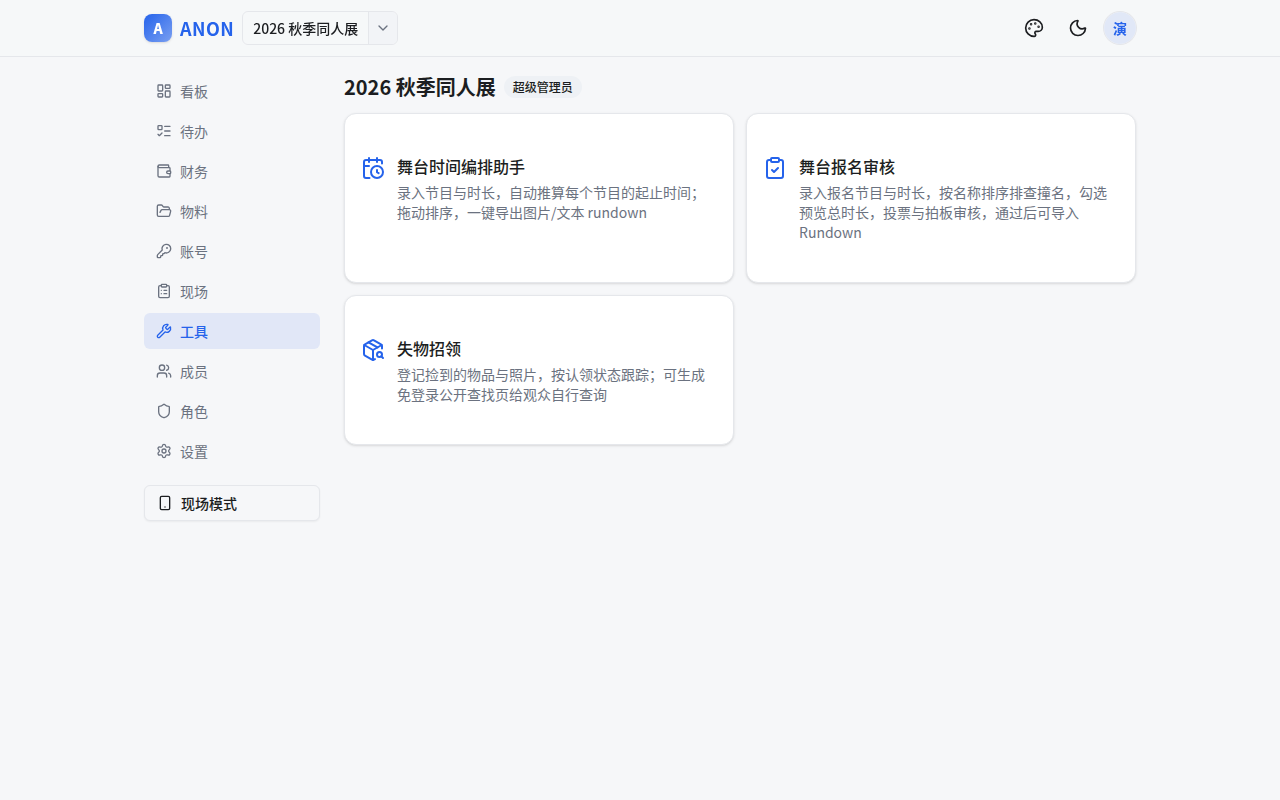
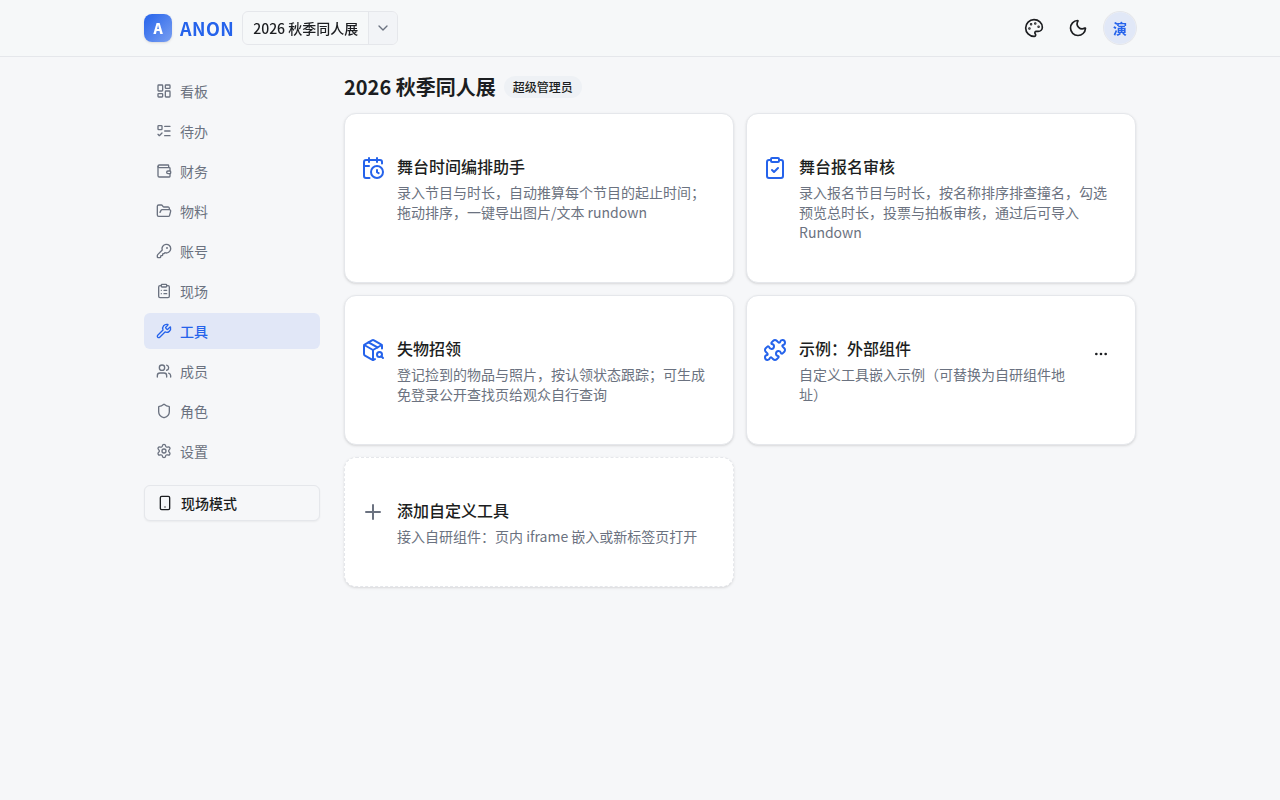
docs: 自定义工具 + OpenAPI 文档与帮助页同步
- file-index：自定义工具/OpenAPI 功能域行、路由/模型/中间件/前端/demo 条目、走查脚本
- features.md：新章「实用工具 · 自定义工具接入」（登记管理/携带身份/个人 API 密钥）+ 权限点表与安全摘要更新
- api.md：通用约定补双 Bearer 凭证与新错误码；新增「自定义工具」「OpenAPI（API 密钥）」两章契约
- readme.md：安全响应头注记 frame-src 放宽 + API 密钥安全设计条目；README 工具节补自定义工具段
- help/content.ts：tools 章新增「自定义工具接入」「携带用户身份与 API 密钥」两节，tab-tools.png 走查环境重生成

Changed region(s): [[0.5938, 0.4062, 0.8438, 0.5], [0.3125, 0.625, 0.5312, 0.6875]]

diff --git a/frontend/src/components/help/content.ts b/frontend/src/components/help/content.ts
@@ -364,10 +364,10 @@ export const HELP_CHAPTERS: HelpChapter[] = [
       {
         heading: '舞台 Rundown',
         paragraphs: [
-          '「工具」Tab 是各类工具组件的容器（移动端收进「更多」弹窗），现有三个工具：「舞台时间编排助手」把舞台节目单排成精确到分钟的时间表；「舞台报名审核」收集报名节目并做录用决策；「失物招领」登记现场捡到物品并跟踪认领（均见本章后续小节）。',
+          '「工具」Tab 是各类工具组件的容器（移动端收进「更多」弹窗），内置三个工具：「舞台时间编排助手」把舞台节目单排成精确到分钟的时间表；「舞台报名审核」收集报名节目并做录用决策；「失物招领」登记现场捡到物品并跟踪认领（均见本章后续小节）。内置工具之后还可登记项目自定义工具（自研组件 iframe 嵌入或新标签页打开），见本章末两节。',
           '每项目可建多份 Rundown（如 Day1/Day2、主/副舞台）。查看与导出全体成员可用；新建、编辑、删除需 `tools:manage` 权限（主办等价放行）。既有项目的角色可在「角色」Tab 勾选「工具管理」补全。',
         ],
-        image: { src: '/help/tab-tools.png', alt: '工具 Tab', caption: '工具 Tab：舞台时间编排助手、舞台报名审核与失物招领' },
+        image: { src: '/help/tab-tools.png', alt: '工具 Tab', caption: '工具 Tab：内置工具卡片、项目自定义工具卡片与「添加自定义工具」入口' },
       },
       {
         heading: '节目与时间推算',
@@ -440,6 +440,20 @@ export const HELP_CHAPTERS: HelpChapter[] = [
         paragraphs: [
           '工具底部的「对外公开查找页」开关打开后，会生成一条免登录链接（/lf/ 开头），任何人打开即可按名称/特征/捡到地点搜索物品、查看照片与认领状态——认领备注等内部信息不会公开。',
           '把链接或二维码贴在服务台，观众可自助查找失物。链接可随时关闭；「重置链接」会作废旧链接并生成新链接（已分发的二维码需更新）。',
+        ],
+      },
+      {
+        heading: '自定义工具接入',
+        paragraphs: [
+          '有「工具管理」权限（或主办）的成员可点「添加自定义工具」卡片，把自研独立组件登记进项目：填写名称、链接（仅 http/https）、描述，并选择打开方式——「嵌入页面内打开」在工具页内以 iframe 渲染（带「全部工具」返回与「新窗口打开」外跳），「新标签页打开」则点击卡片直接外开新标签。',
+          '已登记的工具对所有项目成员可见可点；管理入口在卡片右上角 ⋯ 菜单（编辑/删除）。删除工具会一并作废它签发的所有 API 密钥，不可恢复。若嵌入内容无法显示，说明对方站点禁止被嵌入（X-Frame-Options / frame-ancestors），可改用「新窗口打开」或让该站点放行本系统域名。',
+        ],
+      },
+      {
+        heading: '携带用户身份与 API 密钥',
+        paragraphs: [
+          '登记工具时开启「携带用户身份」并勾选允许插件使用的权限点后，成员打开该工具时链接会附带 5 分钟有效的启动令牌；组件凭它调用 `POST /api/open/exchange` 换取 30 天 API 密钥，之后以 `Authorization: Bearer` 调本系统项目接口，并可调 `GET /api/open/me` 自查身份与生效权限点。密钥的实际权限 = 工具勾选权限点 ∩ 该成员实有角色权限；同一成员重复兑换会顶替旧密钥。',
+          '自动化脚本不需要工具也能拿密钥：「个人资料」页「API 密钥」卡片点「生成密钥」，选项目、勾选你在该项目实有的权限点、选 30 天或永久有效即可。密钥原文只在生成时展示一次，请立即复制保管；泄露或弃用时点「撤销」立即失效。API 密钥只能访问所属项目的项目接口且不超勾选权限点，不能访问个人资料、文件下载等用户态接口，也不能用来再生成新密钥。',
         ],
       },
     ],

diff --git a/docs/file-index.md b/docs/file-index.md
@@ -8,7 +8,7 @@
 
 - 请求链：浏览器 → Cloudflare Worker（`worker/src/index.js`，`/api/*` 反代源站、静态走 ASSETS）→ 源站 nginx（`frontend/nginx.conf`，`/api/` → backend:4000）→ Express（`backend/src/app.ts`）→ FerretDB(MongoDB 协议) / S3(MinIO)。
 - 前端：React 18 + Vite 6 PWA，入口 `frontend/src/main.tsx` → `App.tsx` 路由表；全部请求经 `api/client.ts`（Bearer + 401 单飞刷新重放）；共享类型集中在 `types.ts`。
-- 后端：Express + Mongoose；路由统一挂 `/api/projects/:id/*`（项目域）与 `/api/{auth,admin,me,push,invites,files,cron}` + `/api/public/lostfound`（顶级域，后者免登录）；权限经 `middleware/projectAccess.ts` 的 `loadMembership` + `requirePermission`。
+- 后端：Express + Mongoose；路由统一挂 `/api/projects/:id/*`（项目域）与 `/api/{auth,admin,me,open,push,invites,files,cron}` + `/api/public/lostfound`（顶级域，后者免登录）；权限经 `middleware/projectAccess.ts` 的 `loadMembership` + `requirePermission`；API 密钥（`anonk_` 前缀 Bearer）经 `middleware/auth.ts` 分流鉴权，项目域内由 loadMembership 按 key 绑项目 + scopes 收窄。
 - 纯前端演示站：`frontend/src/demo/` 构建期拦截 `fetch('/api/*')`，内存库 mock 全部后端契约。
 
 ## 功能域速查表（改哪个功能 → 看哪些文件）
@@ -28,6 +28,7 @@
 | 现场模式/工作模块/任务单 | routes/{onsite,workModules,workSheet}.ts、models/{WorkModule,Incident}.ts、services/workModules.ts | pages/{OnsitePage,WorkSheetPrint}.tsx、project/WorkTab.tsx、lib/offlineQueue.ts | tests/{onsite,workModules}.test.ts |
 | 舞台工具（编排/报名/阶段/执行/大屏） | routes/{stageRundowns,stageSignups,stages}.ts、models/{StageRundown,StageScreenShare,StageSignup}.ts | project/tools/*.tsx、project/{ToolsTab,StageManager,StageStepper}.tsx、pages/RundownScreenPage.tsx（大屏公开页）、pages/OnsitePage.tsx（舞台执行卡） | tests/{stageRundowns,stageExecution,stageSignups}.test.ts |
 | 失物招领/公开查找页 | routes/lostFound.ts、models/{LostFoundItem,LostFoundShare}.ts、services/permissions.ts（迁移） | project/tools/LostFound*.tsx、pages/PublicLostFound.tsx、pages/OnsitePage.tsx（现场录入入口） | tests/lostFound.test.ts |
+| 自定义工具/OpenAPI（API 密钥） | routes/{customTools,open}.ts、models/{CustomTool,ApiKey}.ts、middleware/auth.ts（anonk_ 分流 + rejectApiKey 围栏）、middleware/projectAccess.ts（项目绑定 + scopes 收窄）、utils/jwt.ts（kind 隔离 + tool-launch） | project/ToolsTab.tsx、project/tools/{CustomToolEmbed,CustomToolDialog}.tsx、components/ApiKeysCard.tsx（Me 页）、lib/permissions.ts（共享权限清单） | tests/{customTools,open}.test.ts |
 | 里程碑 | routes/milestones.ts、models/Milestone.ts | project/MilestoneSection.tsx | — |
 | 通知（邮件+WebPush）/ cron | services/{notifications,mailer,webpush}.ts、routes/{push,cron}.ts、models/{PushSubscription,ReminderLog,WeeklyReportLog}.ts | lib/push.ts、components/{PushBanner,PushSettingsCard}.tsx、scripts/patch-sw.mjs | tests/{notifications,push,cron}.test.ts |
 | 试用模式 | services/trial.ts、models/TrialSession.ts、services/demoSeed.ts | components/TrialBanner.tsx | tests/trial.test.ts |
@@ -44,21 +45,21 @@
 - `src/app.ts` — Express 装配：helmet + json(2mb) + `/api/health` + errorHandler；路由挂载表（见下文「路由挂载」）
 - `src/config.ts` — 环境配置聚合：port/mongoUri/jwtSecret/S3/SMTP/VAPID/trialEmail
 - `src/index.ts` — 启动入口：连 Mongo → initStorage → grantPermissionToAllRoles（新权限点迁移）→ startTrialSweeper → listen
-- `src/middleware/auth.ts` — authRequired 校验 Bearer JWT；requireSuperAdmin 超管闸
-- `src/middleware/projectAccess.ts` — loadMembership 载入 project/membership/myPermissions；requirePermission(perm)
+- `src/middleware/auth.ts` — authRequired 校验 Bearer（`anonk_` 前缀走 ApiKey 哈希鉴权：过期即删、lastUsedAt 1h 节流回写；否则 JWT）；requireSuperAdmin 超管闸；rejectApiKey 用户态专属接口围栏（403 api_key_forbidden）
+- `src/middleware/projectAccess.ts` — loadMembership 载入 project/membership/myPermissions（API 密钥请求尾部统一收窄：绑项目错配 403 api_key_wrong_project、myPermissions ∩ key.scopes）；requirePermission(perm)
 - `src/middleware/errorHandler.ts` — 统一 AppError/Mongoose 错误为 `{error:{code,message}}`
 - `src/middleware/upload.ts` — multer 磁盘上传（20MB、UUID 命名）；fixFilename 中文名修复
 - `src/utils/async.ts` — ah 包装 async handler 转 next(err)
 - `src/utils/errors.ts` — AppError(status, code, message)
-- `src/utils/jwt.ts` — signToken 15 分钟；verifyToken 返回 userId
+- `src/utils/jwt.ts` — signToken/verifyToken（15 分钟，kind:'user'）；signToolLaunchToken/verifyToolLaunchToken（5 分钟 kind:'tool-launch'，仅可兑换 API 密钥）
 - `vitest.config.ts` — 单 fork 串行、注入测试 JWT_SECRET
 - `scripts/seed-demo.ts` — CLI 种子：5 用户 + 示例项目 + 邀请码 DEMO-2026
 
 ### 路由挂载（app.ts）
-- 顶级：`/api/auth`(限流 50/15min)、`/api/admin`、`/api/me`、`/api/push`、`/api/invites`、`/api/files`、`/api/cron`、`/api/projects`、`/api/public/lostfound` 与 `/api/public/rundown-screen`(免登录,限流 300/min)
-- 项目域 `/api/projects/:id/`：`files` `todos` `work-modules` `work-sheet` `finance` `materials` `physical` `accounts` `dashboard` `onsite` `risks` `announcements` `activities` `stages` `stage-rundowns` `stage-signups` `lostfound` `milestones`
+- 顶级：`/api/auth`(限流 50/15min)、`/api/admin`、`/api/me`、`/api/open`、`/api/push`、`/api/invites`、`/api/files`、`/api/cron`、`/api/projects`、`/api/public/lostfound` 与 `/api/public/rundown-screen`(免登录,限流 300/min)
+- 项目域 `/api/projects/:id/`：`files` `todos` `work-modules` `work-sheet` `finance` `materials` `physical` `accounts` `dashboard` `onsite` `risks` `announcements` `activities` `stages` `stage-rundowns` `stage-signups` `custom-tools` `lostfound` `milestones`
 
-### 路由 `src/routes/`（25 个，一文件一业务域）
+### 路由 `src/routes/`（27 个，一文件一业务域）
 - `auth.ts` — POST register/login/refresh/logout，JWT+refresh 轮换；/login 内嵌试用入口（trialLogin）
 - `admin.ts` — 超管邀请码 POST/GET /invite-codes
 - `me.ts` — 个人资料 GET/PATCH /、POST /onboarded
@@ -79,13 +80,15 @@
 - `stages.ts` — 阶段 CRUD、PATCH /reorder
 - `stageRundowns.ts` — 流程单 CRUD、节目 items、reorder（执行中仅未执行节目槽位可重排，动已演/在演位置 409）、execution 执行控制（start/advance/jump/shift/finish/reset）、screen-share 开关、publicRundownScreenRouter 公开大屏（token + 白名单）
 - `stageSignups.ts` — 报名批次/节目、PUT|DELETE review 投票、POST /:sid/import
+- `customTools.ts` — 自定义工具 CRUD（tools:manage；DELETE 级联删该工具 ApiKey）、POST /:toolId/launch（成员可用，passToken 工具签发 5 分钟启动令牌）
+- `open.ts` — OpenAPI 模式：POST /exchange（launch token 换 30 天 API 密钥，限流 60/15min，同 user+tool 顶替）、GET /me（apikey 自查身份/权限交集/有效期）、keys CRUD（自助生成 30 天或永久，一次性返回原文；authRequired+rejectApiKey 防密钥造密钥）
 - `lostFound.ts` — 双路由：项目域物品 CRUD/status/photo/share（lostfound:manage）；公开域免登录只读（token + 字段白名单）
 - `milestones.ts` — 里程碑 CRUD、POST /:milestoneId/complete
 - `activities.ts` — GET / 项目动态流（limit≤50）
 - `push.ts` — GET /config(VAPID)、POST/DELETE /subscription
 - `cron.ts` — CRON_SECRET 鉴权：POST /reminders、POST /weekly-report
 
-### 模型 `src/models/`（33 个，Mongoose，`models.X ?? model(...)` 幂等注册）
+### 模型 `src/models/`（35 个，Mongoose，`models.X ?? model(...)` 幂等注册）
 - `User.ts` — 用户：email/name/passwordHash/isSuperAdmin/contacts；导出 publicUser() 脱敏
 - `RefreshToken.ts` — 会话：tokenHash(sha256 唯一)、expiresAt
 - `InviteCode.ts` — 注册邀请码：code/createdBy/usedBy/usedAt
@@ -110,6 +113,8 @@
 - `PushSubscription.ts` — WebPush 订阅：endpoint/p256dh/auth（端点唯一）
 - `TrialSession.ts` — 试用会话：keyHash/userId/projectId/expiresAt(24h)
 - `WeeklyReportLog.ts` — 周报发送记录：projectId+weekStart（唯一）
+- `CustomTool.ts` — 自定义工具：projectId/name/url/mode(embed|link)/passToken/scopes
+- `ApiKey.ts` — API 密钥：keyHash(sha256 唯一)/userId/projectId/toolId(可选，工具兑换来源)/scopes/expiresAt(可空=永久)/lastUsedAt
 
 ### 服务 `src/services/`
 - `activity.ts` — logActivity 异步写操作日志
@@ -132,7 +137,7 @@
 
 ### 测试 `tests/`（vitest + supertest + mongodb-memory-server，打真实路由）
 - `setup.ts` / `helpers.ts` — 内存 Mongo 基建 / 造号工具（createSuperAdmin/registerUser）
-- 每域一个 `*.test.ts`：auth/admin/me/projects/invites/todos/todo-complete/todo-updates/template/finance/materials/files/physical/accounts/announcements/dashboard/onsite/workModules/stageRundowns/stageExecution/stageSignups/lostFound/notifications/push/cron/trial/onboarding/health
+- 每域一个 `*.test.ts`：auth/admin/me/projects/invites/todos/todo-complete/todo-updates/template/finance/materials/files/physical/accounts/announcements/dashboard/onsite/workModules/stageRundowns/stageExecution/stageSignups/customTools/open/lostFound/notifications/push/cron/trial/onboarding/health
 
 ## 前端 `frontend/`
 
@@ -149,6 +154,7 @@
 - `src/lib/datetime.ts` — 本地时间格式化 + 活动倒计时 + 开展倒排换算（daysBeforeLocal）
 - `src/lib/offlineQueue.ts` — 离线 POST 队列（现场模式用）
 - `src/lib/push.ts` — Web Push 订阅管理
+- `src/lib/permissions.ts` — PERMISSIONS 权限点清单（与后端 ALL_PERMISSIONS 对齐；RolesTab 矩阵/自定义工具 scopes/ApiKeysCard 勾选区共用）
 - `src/lib/utils.ts` — cn() 类名合并
 
 ### 页面 `src/pages/`
@@ -157,7 +163,7 @@
 - `ProjectHome.tsx` — 项目主页：10 个按权限过滤的 Tab + 现场模式入口
 - `OnsitePage.tsx` — 现场模式：签到/完成/异常上报（离线入队）、舞台执行卡（Rundown 开始/推进/顺延，按 tools:manage 显隐）、失物登记入口（复用 LostFoundItemDialog，按 myPermissions 显隐）、30s 轮询
 - `WorkSheetPrint.tsx` — 任务单打印页（按人/全员）
-- `Me.tsx` — 个人资料/联系方式/推送设置/界面偏好
+- `Me.tsx` — 个人资料/联系方式/推送设置/API 密钥（ApiKeysCard）/界面偏好
 - `Admin.tsx` — 超管邀请码管理
 - `InviteAccept.tsx` — 接受项目邀请
 - `PublicLostFound.tsx` — 失物招领免登录公开查找页（/lf/:token，搜索+状态筛选+照片）
@@ -172,6 +178,7 @@
 - `DemoBadge.tsx` / `DemoBanner.tsx` — 演示站角标 / 横幅（一键还原种子）
 - `TrialBanner.tsx` — 试用横幅（数据销毁倒计时）
 - `PushBanner.tsx` / `PushSettingsCard.tsx` — Push 提示条 / 订阅开关卡
+- `ApiKeysCard.tsx` — Me 页 API 密钥卡：自助生成（项目+实有权限点+30 天/永久）、一次性原文展示复制、列表与撤销
 - `Toaster.tsx` — sonner 封装；`Logo.tsx` — 品牌标识
 - `help/content.ts` — HELP_CHAPTERS 帮助文案（11 章，UI 变化需同步并重生成截图）
 - `onboarding/OnboardingDialog.tsx` — 首登三页幻灯；`onboarding/tour.ts` — driver.js 分步高亮（data-tour 锚点）
@@ -190,7 +197,8 @@
 - `AnnouncementManager.tsx` — 公告发布/置顶/确认名单
 - `MilestoneSection.tsx` / `StageStepper.tsx` / `StageManager.tsx` — 里程碑卡 / 阶段进度条 / 阶段增删排序
 - `VisibilityPicker.tsx` — 可见范围选择器（成员+角色勾选，多 Tab 复用）
-- `ToolsTab.tsx` — 实用工具容器（舞台编排/报名审核/失物招领卡片入口）
+- `ToolsTab.tsx` — 实用工具容器（内置：舞台编排/报名审核/失物招领卡片；自定义工具卡片网格 + ⋯ 管理菜单 + 虚框添加卡，点击 embed→页内 iframe / link→新标签页）
+- `tools/CustomToolEmbed.tsx` / `tools/CustomToolDialog.tsx` — 自定义工具页内 iframe 视图（sandbox 不放行 top-navigation + 新窗口打开）/ 新建编辑弹层（FormOverlay，携带身份开关 + scopes 勾选）
 - `tools/StageRundownTool.tsx` + `ProgramFormDialog.tsx` + `ExecutionPanel.tsx` + `ScreenShareDialog.tsx` — 流程单编排/节目表单/导出/执行控制台（开始/推进/跳节目/顺延/结束重置）/大屏分享管理
 - `tools/StageSignupTool.tsx` + `SignupItemDialog.tsx` + `SignupReviewDialog.tsx` — 报名审核/投票/拍板/导入
 - `tools/SwipeRow.tsx` — 触屏侧滑操作行；`tools/rundownExport.ts` — 时间推算/文本/PNG 导出（纯前端）；`tools/rundownExecution.ts` — 执行态推算纯函数（延误/超时/预计时间/实时级联推算开始与结束）
@@ -198,11 +206,11 @@
 
 ### 演示站 `src/demo/`（`npm run build:demo`，浏览器内 mock 全部 /api）
 - `install.ts` — installDemo：包装 window.fetch 拦截 /api/*；sessionStorage 内存库
-- `router.ts` — def/route：`:param` 模板路由 + 80ms 延迟
-- `seed.ts` — buildSeed（DB_VERSION=6）：相对当前时刻生成演示数据
+- `router.ts` — def/route：`:param` 模板路由 + 80ms 延迟；Ctx 透传 Authorization 头（open/me 识别 anonk_demo_*）
+- `seed.ts` — buildSeed（DB_VERSION=7）：相对当前时刻生成演示数据（含两条自定义工具种子）
 - `types.ts` / `helpers.ts` — Db/Ctx/Handler 类型 / 错误信封·权限·文件存取
 - `aggregate.ts` — R1–R7 聚合（注释标注移植自后端哪个服务）
-- `handlers/*.ts`（13 个）— 按域复刻后端路由：auth/projects/todos/finance/materials/physical/accounts/dashboard/work/stageRundowns/stageSignups/lostFound + index.ts 合并路由表
+- `handlers/*.ts`（15 个）— 按域复刻后端路由：auth/projects/todos/finance/materials/physical/accounts/dashboard/work/stageRundowns/stageSignups/customTools/open/lostFound + index.ts 合并路由表
 - `pwa-register-stub.ts` — 禁 SW 防缓存干扰 mock
 
 ### 构建与脚本
@@ -224,6 +232,6 @@
 
 ## 走查脚本 `.walkthrough/`（不入库的 Playwright 工具集）
 - 截图生成：`help-screenshot*.mjs`（帮助中心 tab-*.png）、`stage-signup-shots.mjs` 等
-- 功能走查：`stage-signup.mjs`、`stage-rundown.mjs`、`stage-execution.mjs`（执行模式+现场大屏）、`onsite-walkthrough.mjs`、`nav-layout-verify.mjs`、`security-verify.mjs` 等约 30 个，输出 PASS/FAIL
+- 功能走查：`stage-signup.mjs`、`stage-rundown.mjs`、`stage-execution.mjs`（执行模式+现场大屏）、`custom-tools.mjs`（自定义工具 + OpenAPI/Me 页密钥全流程）、`onsite-walkthrough.mjs`、`nav-layout-verify.mjs`、`security-verify.mjs` 等约 30 个，输出 PASS/FAIL
 - 冒烟：`smoke/prod-smoke.mjs`、`pwa-smoke.mjs`
 - 调试：`debug-*.mjs` 约 20 个临时复现脚本；`shots/` 为截图产物

diff --git a/docs/readme.md b/docs/readme.md
@@ -163,7 +163,8 @@ CLOUDFLARE_API_TOKEN=... CLOUDFLARE_ACCOUNT_ID=... npm run deploy
 
 - **会话**：access JWT 15 分钟有效，refresh token 30 天滚动（每次刷新轮换，库中只存 sha256，单用户上限 10 个），退出登录即吊销。旧 30 天 JWT 在部署后仍有效直至自然过期（同一 JWT_SECRET），前端会自动走刷新流程续期。
 - **登录限流**：`/api/auth/*`（注册/登录/试用登录/refresh/logout）每 IP 15 分钟最多 50 次，防撞库与试用环境资源消耗。
-- **安全响应头**：nginx 对静态页下发 CSP（无 unsafe-inline 脚本，主题初始化脚本已外置 `theme-init.js`）、`X-Content-Type-Options`、`X-Frame-Options`、`Referrer-Policy`、`Permissions-Policy`；`server_tokens off` 隐藏版本号。
+- **安全响应头**：nginx 对静态页下发 CSP（无 unsafe-inline 脚本，主题初始化脚本已外置 `theme-init.js`；`frame-src` 放行 `https:`/`http:` 以支持自定义工具 iframe 嵌入，本系统自身仍 `frame-ancestors 'none'` 禁止被嵌）、`X-Content-Type-Options`、`X-Frame-Options`、`Referrer-Policy`、`Permissions-Policy`；`server_tokens off` 隐藏版本号。
+- **API 密钥（OpenAPI 模式）**：`anonk_` 前缀 Bearer 凭证（库中只存 sha256，原文仅创建时返回一次）；绑定单一项目且权限 = 密钥 scopes ∩ 持有者实时角色权限；`/api/me`、`/api/admin`、`/api/push`、`/api/invites`、`/api/files` 与项目创建/全量列表整体拒绝密钥；兑换端点限流 60 次/15 分钟/IP；工具启动令牌为 5 分钟短期 JWT（kind 隔离，不可当登录态使用）。
 - **权限化审计日志**：实物清单数量变动/状态变更需 `materials:manage`，无权限成员看不到「变动记录」入口。
 - **文件预览收敛**：仅位图（png/jpeg/webp/gif）生成缩略预览；内联预览白名单仅放行位图 + PDF/Markdown/常见音视频（PDF 浏览器沙箱渲染、音视频标签解码、Markdown 原始 HTML 转义），SVG 等可携带脚本的格式不生成预览、下载走 `Content-Disposition: attachment`。
 - **非 root 容器**：backend（node 用户）与 frontend（`nginxinc/nginx-unprivileged`，监听 8080）均不以 root 运行。

diff --git a/README.md b/README.md
@@ -61,9 +61,11 @@
 
 ![成员 Tab](frontend/public/help/tab-members.png)
 
-### 工具：舞台时间编排 + 报名审核 + 失物招领
+### 工具：舞台时间编排 + 报名审核 + 失物招领 + 自定义工具接入
 
 录入节目（名称/时长/参与者 CN/素材文件），自动推算每个节目的起止时间；拖动或键盘快速排序，一键导出高清 PNG 表格（勾选列、长文本自动换行）与纯文本 rundown。演出当天进入**执行模式**：当前节目追踪、延误/提前与超时提示、一键顺延后续节目，执行中锁定编排；「现场大屏」生成免登录深色投屏页（当前节目特大字 + 时钟 + 紧急公告位，10 秒自动刷新，联系方式/备注/附件不上屏），现场模式页还有「舞台执行」卡可就地开始/推进/顺延。报名审核工具按批次收集报名节目，按名称排序暴露撞名，勾选实时预览合计时长与预计起止，成员投票（赞成/反对 + 意见）后由管理者拍板，已通过节目一键追加进既有 Rundown。失物招领工具登记现场捡到物品（照片/捡到地点）并跟踪认领状态，可一键开启免登录公开查找页（随机链接、可关闭可重置），观众扫码即可自助查失物；现场模式页也有失物登记卡片，捡到即录。
+
+可登记自研独立组件为项目自定义工具（页内 iframe 嵌入或新标签页打开，`tools:manage` 管理）；开启「携带用户身份」后组件经短期启动令牌兑换 30 天 API 密钥（OpenAPI 模式，权限按勾选权限点 ∩ 用户角色实时收窄），「我的」页还可自助生成 30 天/永久 API 密钥供自动化脚本使用。
 
 ### 通知：邮件 + Web Push
 
